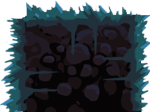
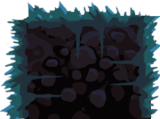
fuck this shit i'll be a stripper

diff --git a/js/game/Block.js b/js/game/Block.js
@@ -9,20 +9,20 @@ var Block = Base.extend({
         this.x = x;
         this.y = y;
 
-        this.width = 150;
-        this.height = 112;
+        this.width = 160;
+        this.height = 119;
     },
 
     draw : function(canvas, context, player, camera, area) {
         if(player.x < camera.halfWidth) {
-            context.drawImage(BlockConstants['image'], this.x - this.width/2, this.y);
+            context.drawImage(BlockConstants['image'], this.x - this.width/2, this.y - this.height);
         }
         else if(player.x > area.width - camera.halfWidth - player.width/2) {
-            context.drawImage(BlockConstants['image'], this.x - area.width/2 + player.width/2, this.y);
+            context.drawImage(BlockConstants['image'], this.x - area.width/2 + player.width/2, this.y - this.height);
         }
         else {
             var playerDistance = player.x - this.x;
-            context.drawImage(BlockConstants['image'], camera.halfWidth - playerDistance - this.width/2, this.y);
+            context.drawImage(BlockConstants['image'], camera.halfWidth - playerDistance - this.width/2, this.y - this.height);
         }
     },
 

diff --git a/js/game/Area.js b/js/game/Area.js
@@ -29,7 +29,10 @@ var Area = Base.extend({
         this.groundFinalOffset = 0;
 
 
-        this.blocks.push(new Block(1450, this.groundLevel));
+        this.blocks.push(new Block(1495, this.groundLevel + 50));
+        this.blocks.push(new Block(2300, this.groundLevel + 50));
+        this.blocks.push(new Block(2440, this.groundLevel + 50));
+        this.blocks.push(new Block(2440, this.groundLevel + 50 - 100));
         //this.doors.push(new Door("town", 1000, height-198));
     },
 
@@ -72,7 +75,10 @@ var Area = Base.extend({
     },
 
     drawProps : function(canvas, context, player, camera) {
-        //NPCs
+        for(var i in this.blocks){
+            this.blocks[i].draw(canvas, context, player, camera, this);
+        }
+
         for(var i in this.npc){
             this.npc[i].draw(canvas, context, player, camera, this);
         }
